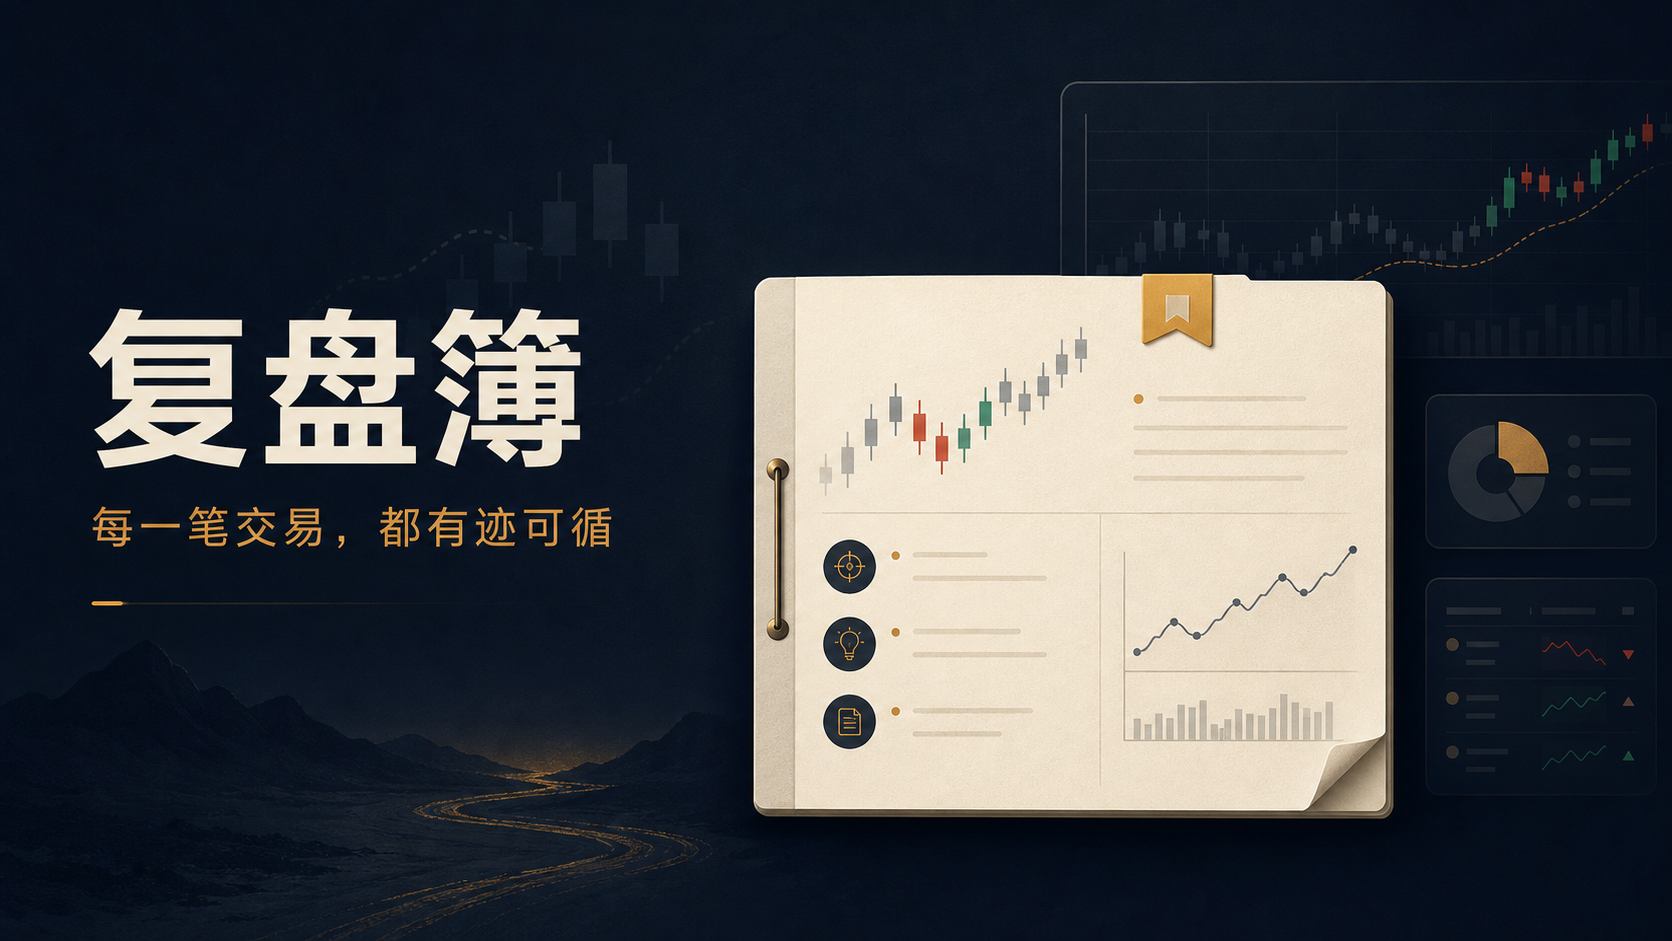
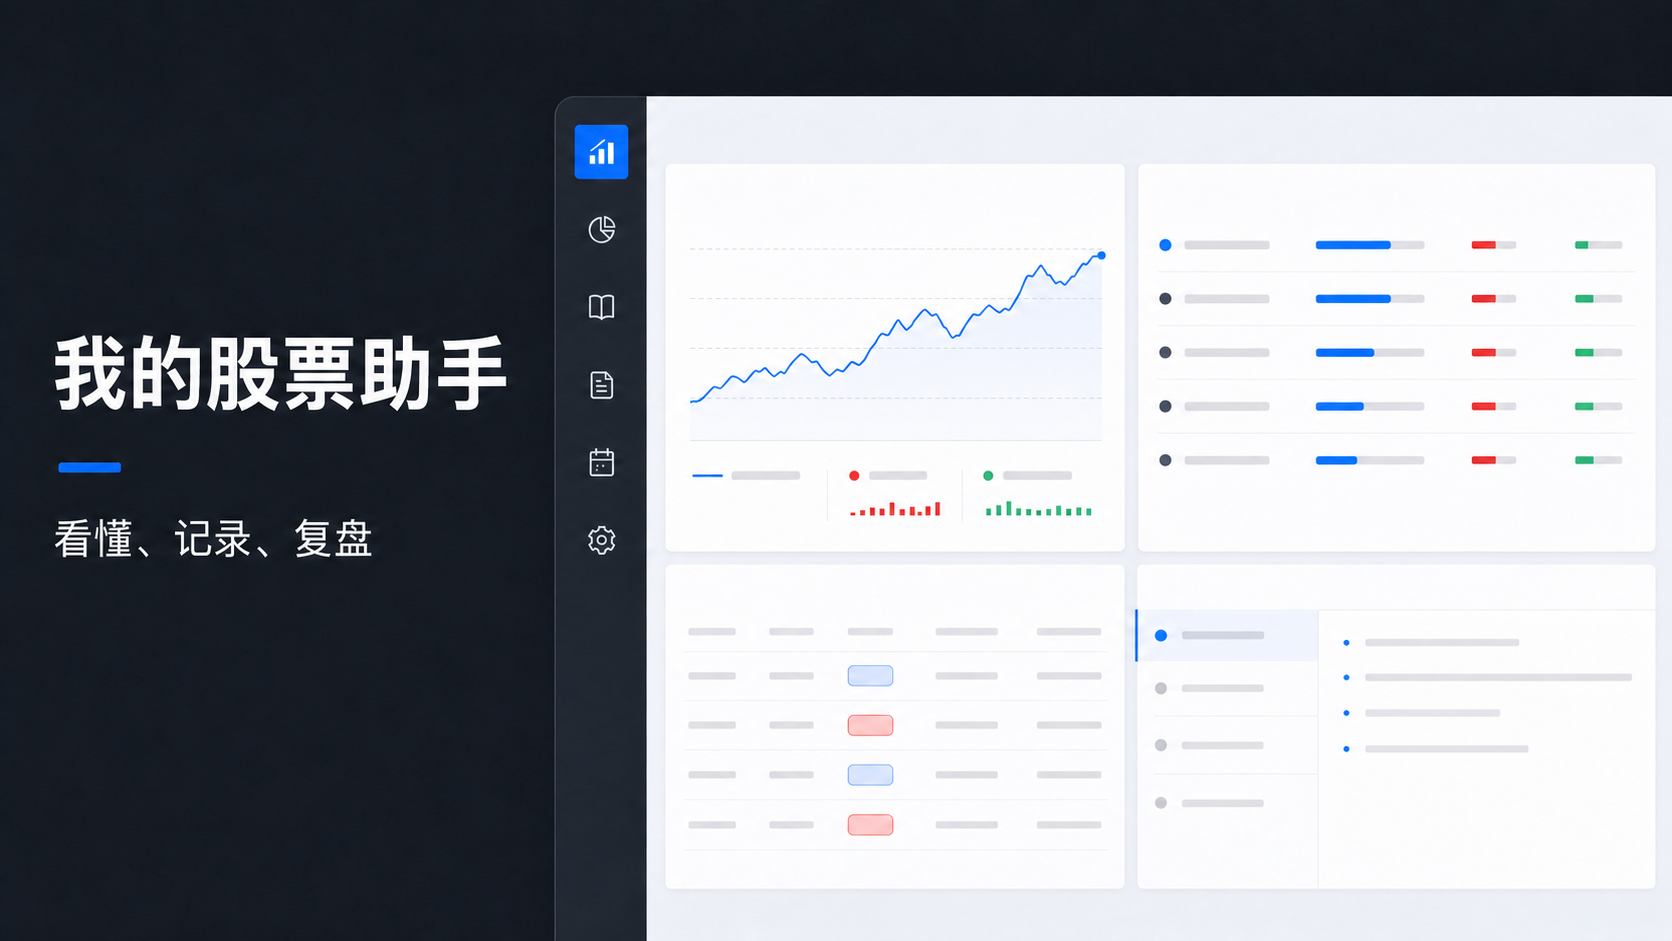
chore: remove unused project artifacts

diff --git a/app/layout.tsx b/app/layout.tsx
@@ -20,13 +20,13 @@ export const metadata: Metadata = {
   openGraph: {
     title: "我的股票助手｜看懂、记录、复盘",
     description: "输入股票，先把它看懂。AI负责解释，你负责决定。",
-    images: [{ url: "/og-v6.png", width: 1672, height: 941, alt: "我的股票助手：看懂、记录、复盘" }],
+    images: [{ url: "/og.png", width: 1672, height: 941, alt: "我的股票助手：看懂、记录、复盘" }],
   },
   twitter: {
     card: "summary_large_image",
     title: "我的股票助手｜看懂、记录、复盘",
     description: "输入股票，先把它看懂。AI负责解释，你负责决定。",
-    images: ["/og-v6.png"],
+    images: ["/og.png"],
   },
 };
 

diff --git a/README.md b/README.md
@@ -1,28 +1,47 @@
-# 复盘簿
+# 我的股票助手
 
-一个面向个人投资者的股票交易复盘工作台。
+面向个人使用的 A 股记录与复盘工具。它负责整理公开行情、记录交易、触发价格提醒并辅助复盘，不提供荐股或自动交易。
 
-它把交易流水、止盈止损计划、重点关注、题材脉络、每日复盘和交易统计放在同一条工作流里，核心目标不是预测行情，而是帮助使用者判断自己是否持续按计划交易。
+## 主要功能
 
-## 当前版本
-
-- 今日概览与收盘待办
-- 持仓止盈止损状态
-- 交易记录与交易依据
-- 重点关注及题材归类
-- 五分钟每日复盘
-- 胜率、盈亏比、纪律和亏损原因洞察
-- D1 云端交易记录存储
+- 单用户账号登录，页面和数据接口均受保护
+- 公开渠道行情、财务和题材信息整理
+- DeepSeek 或 OpenAI 兼容模型解释
+- 关注股票、买卖记录、持仓与盈亏计算
+- 止盈止损提醒、公告摘要和交易复盘
+- JSON 数据备份
 
 ## 本地运行
+
+需要 Node.js 22.13 或更高版本。
 
 ```bash
 npm install
 npm run dev
 ```
 
-构建检查：
+访问终端显示的本地地址。登录与 AI 配置放在不会提交到 Git 的 `.env` 或 `.env.local` 中：
+
+```dotenv
+APP_USERNAME=owner
+APP_PASSWORD=至少12位密码
+APP_AUTH_SECRET=至少32位随机字符
+
+DEEPSEEK_API_KEY=
+```
+
+完整字段说明见 `.env.example`。
+
+## 检查
 
 ```bash
-npm run build
+npm run lint
+npm test
 ```
+
+## 部署
+
+- Sites：使用 `.openai/hosting.json`、`worker/` 和 `build/`。
+- Docker：使用 `Dockerfile`、`docker-compose.yml`、`start.sh` 和 `deploy.sh`。
+
+数据库迁移位于 `drizzle/`，不要手工删除或重新编号。
